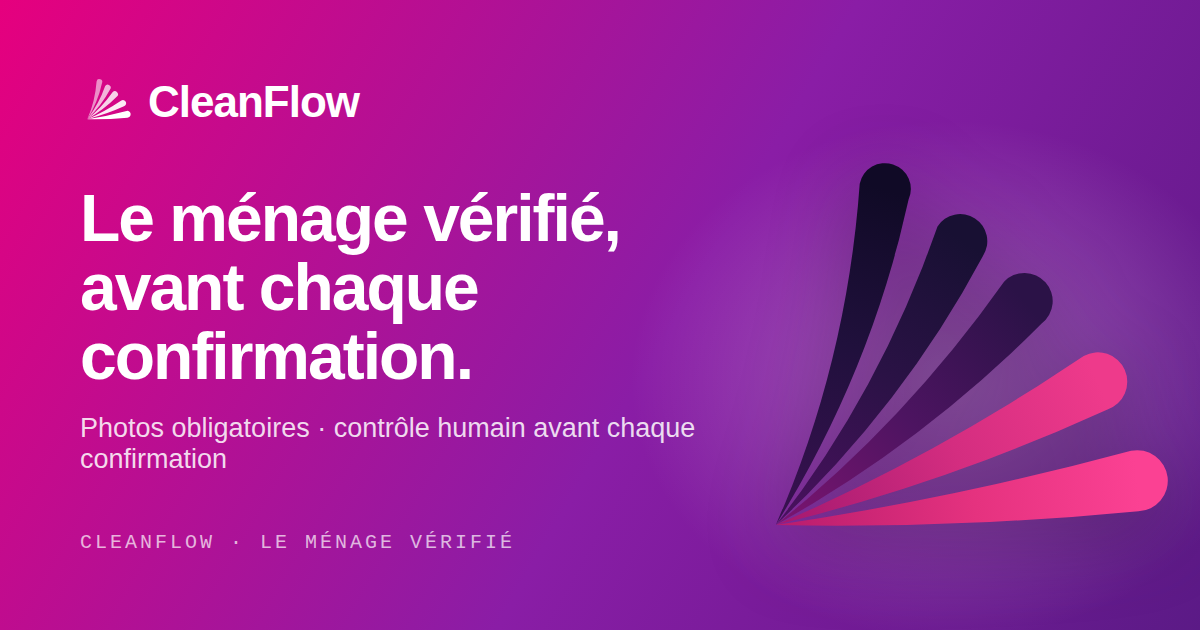
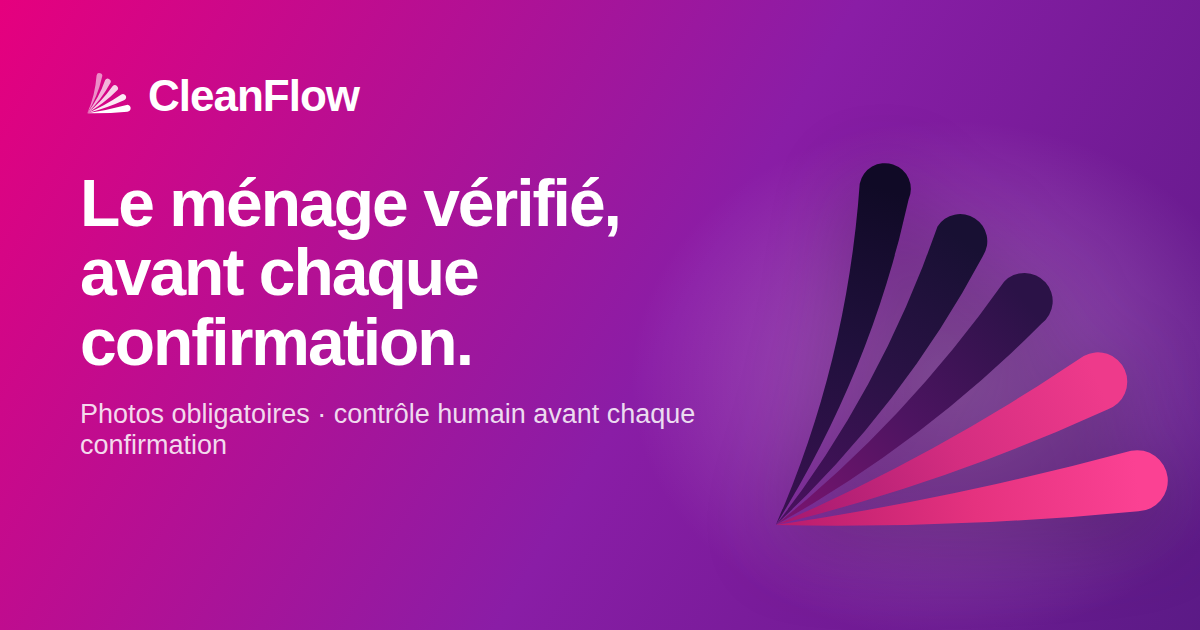
Footer: join CleanFlow wordmark; OG: drop repetitive foot line
- Landing footer brand rendered as 'Clean Flow' because the flex gap split
  <span>Clean</span> and the 'Flow' text node into two flex items. Wrap the
  wordmark in a single .wm span so the gap sits only between logo and word;
  'Clean' stays pink-soft, 'Flow' white.
- OG: remove the 'CleanFlow · Le ménage vérifié' footer line (repeats the
  wordmark and headline); pin the logo top-left and center the headline.

Claude-Session: https://claude.ai/code/session_01PSFB2AcGDjQKMr7dBD2kz8

diff --git a/index.html b/index.html
@@ -202,7 +202,8 @@
   .footer-top{ display:grid; grid-template-columns: 1.4fr 1fr 1fr 1fr; gap:40px; padding-bottom:40px; border-bottom:1px solid rgba(255,255,255,0.14); }
   @media (max-width:760px){ .footer-top{ grid-template-columns:1fr 1fr; gap:30px 24px; } }
   .footer-brand b{ display:flex; align-items:center; gap:9px; color:#fff; font-size:19px; font-weight:700; }
-  .footer-brand b span{ color:var(--pink-soft); }
+  .footer-brand b span.wm{ color:#fff; }
+  .footer-brand b span.wm span{ color:var(--pink-soft); }
   .footer-brand p{ color: rgba(255,255,255,0.6); margin-top:12px; font-size:13.5px; max-width:280px; line-height:1.6; }
   .footer-col h5{ font-size:11px; text-transform:uppercase; letter-spacing:0.1em; color:var(--pink-soft); margin-bottom:15px; font-weight:600; }
   .footer-col a, .footer-col span{ display:block; color: rgba(255,255,255,0.78); text-decoration:none; margin-bottom:10px; transition: color .15s ease-out; }
@@ -487,7 +488,7 @@
       <div class="footer-brand">
         <b>
           <img class="mark" src="assets/fan-mark.svg" alt="" aria-hidden="true">
-          <span>Clean</span>Flow
+          <span class="wm"><span>Clean</span>Flow</span>
         </b>
         <p>Le ménage vérifié pour vos logements. Photos obligatoires, contrôle humain avant chaque confirmation.</p>
       </div>
